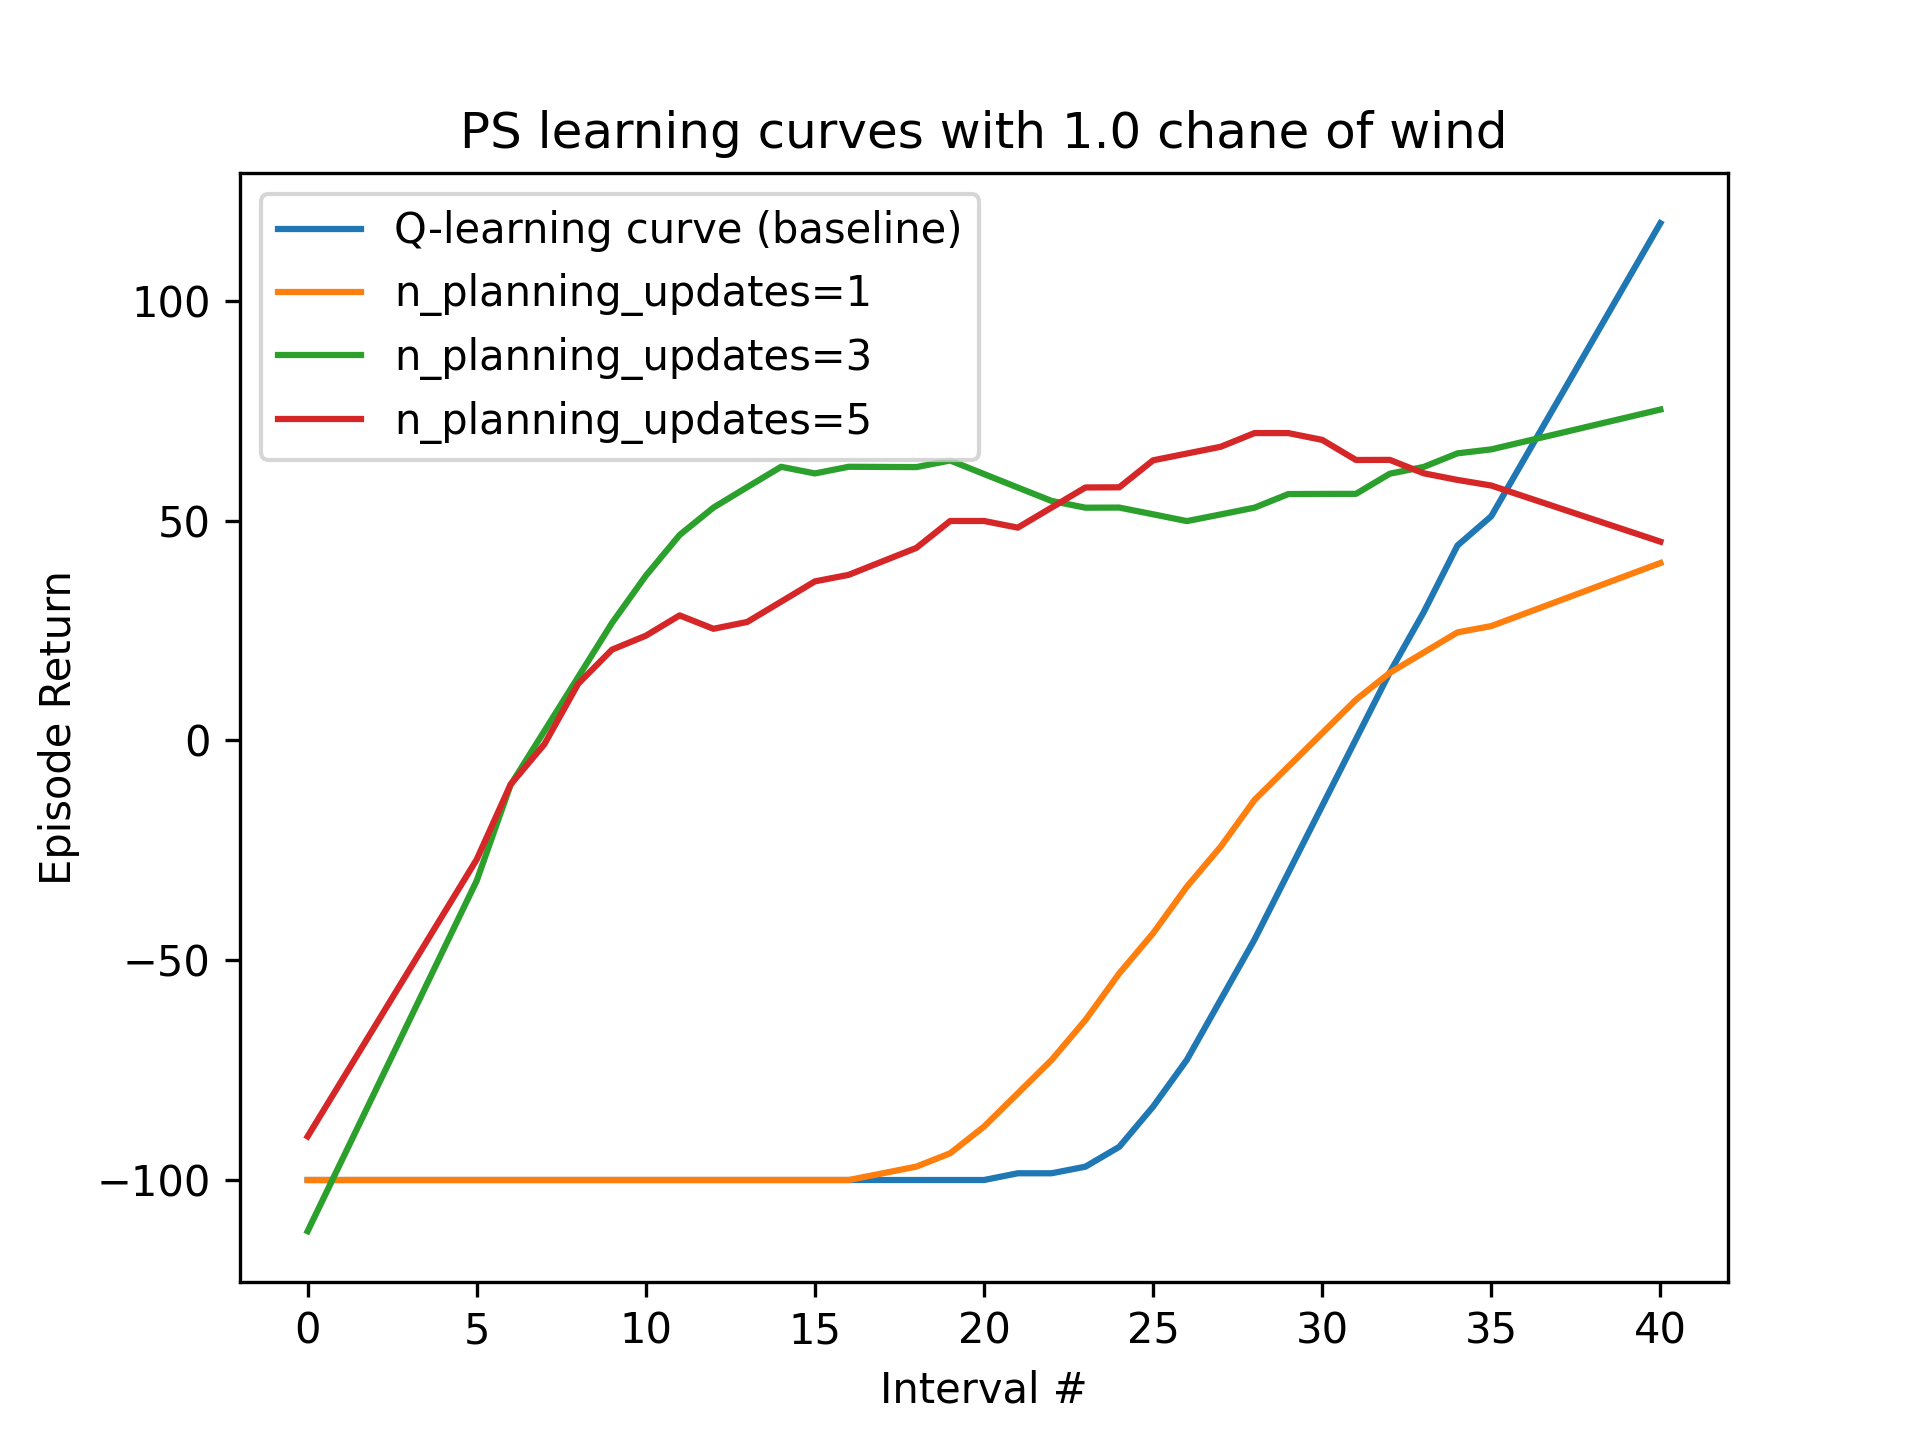
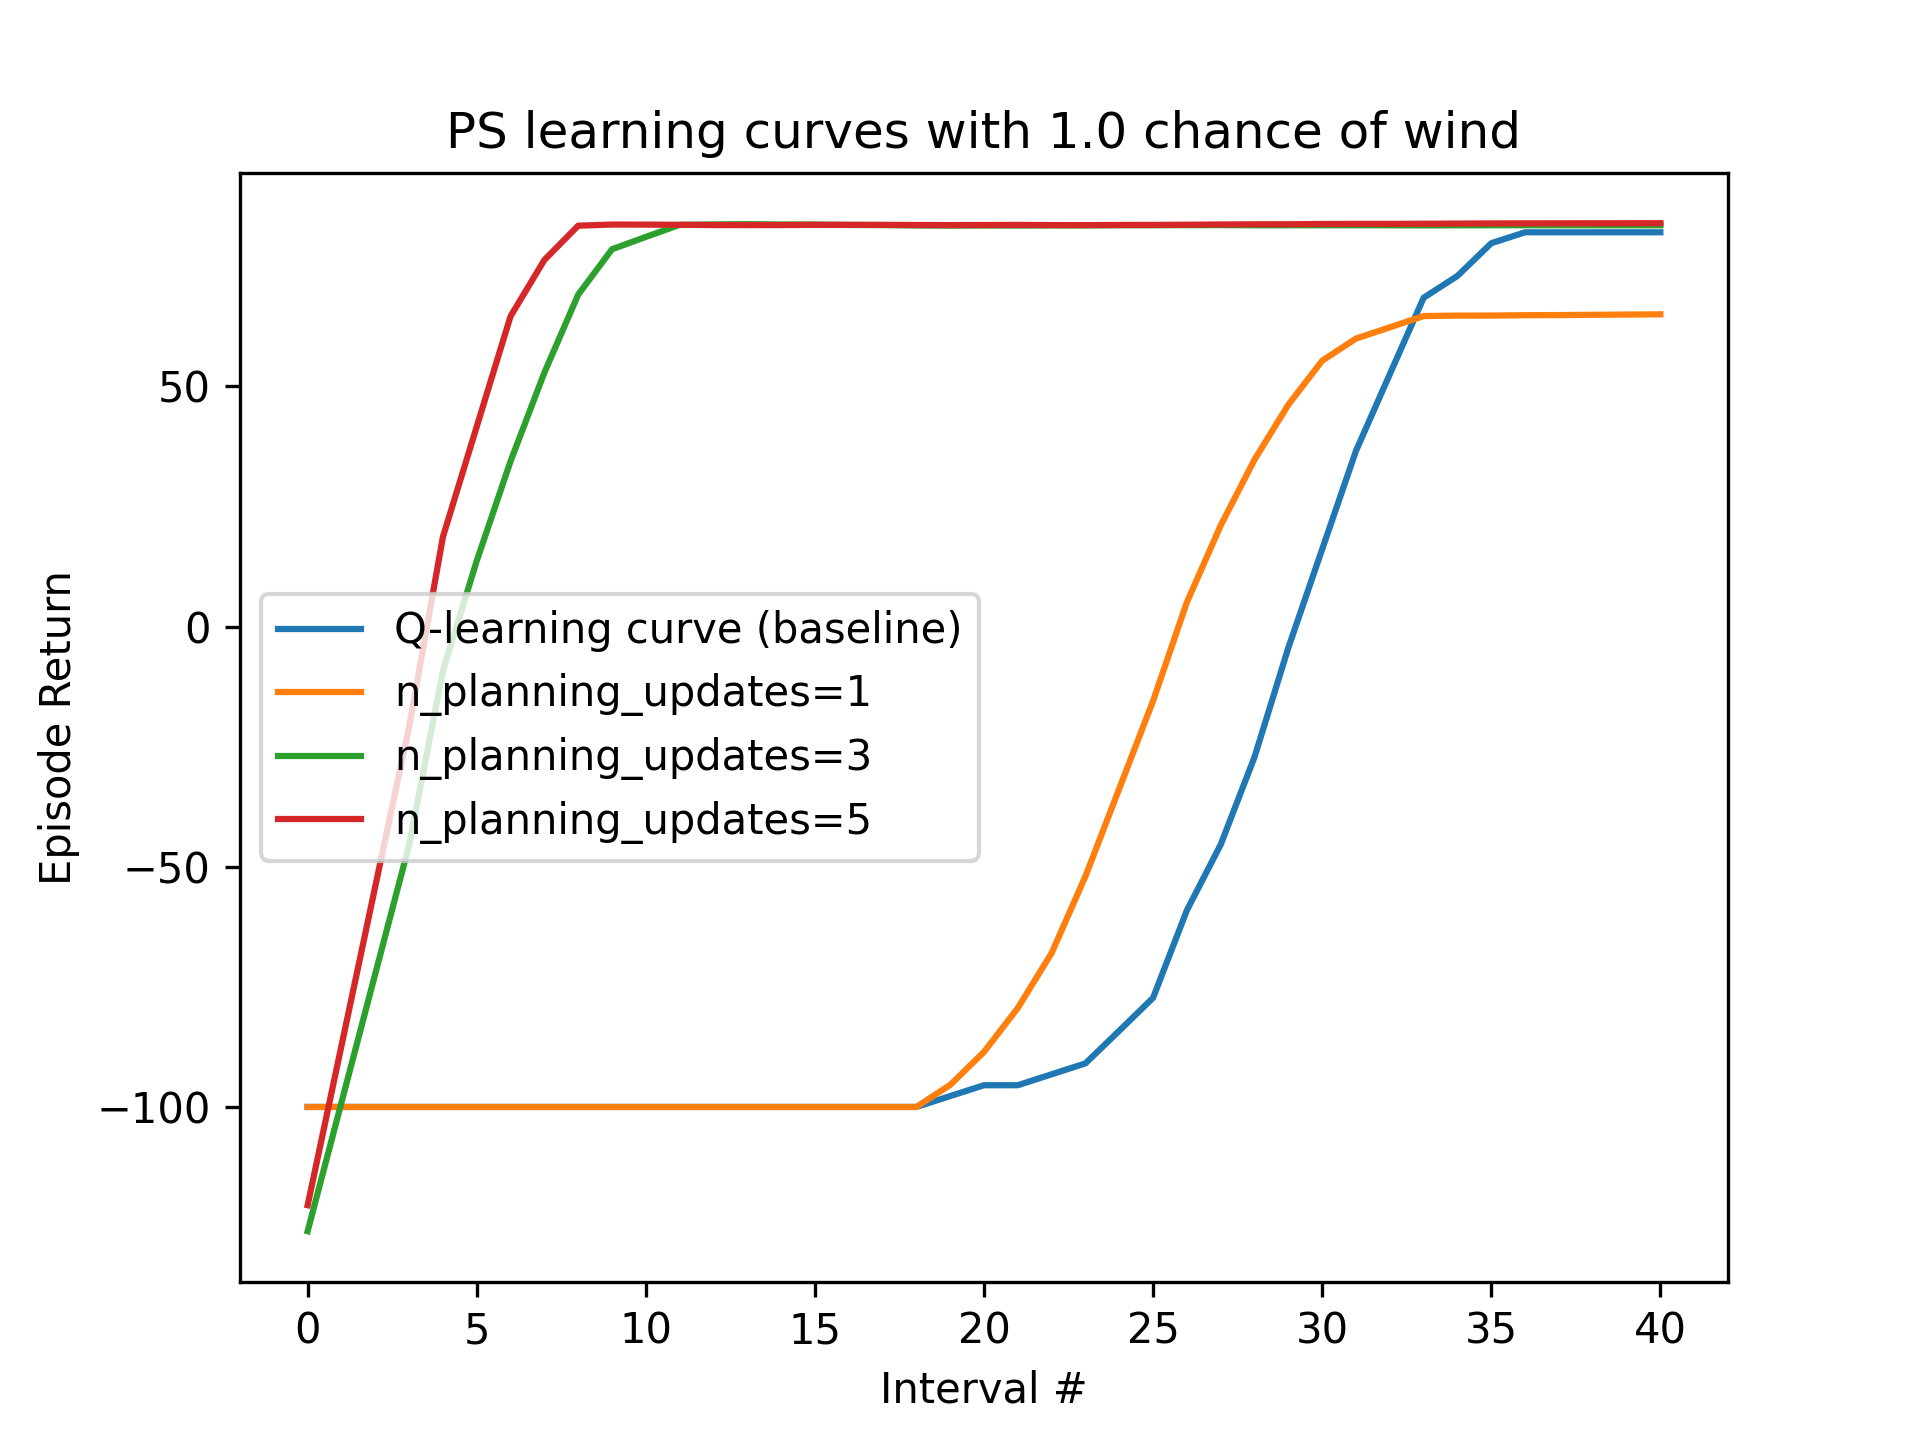
final(?) graphs

diff --git a/MBRLExperiment.py b/MBRLExperiment.py
@@ -25,7 +25,7 @@ def run_repetition(
 ) -> np.ndarray:
     rewards_arr = []
     s = env.reset()
-    counter = 0
+    counter = 1
     for n_timestep in tqdm(range(n_timesteps), desc="repetition"):
         a = agent.select_action(s, kwargs["epsilon"])
         s_next, r, done = env.step(a)
@@ -37,7 +37,7 @@ def run_repetition(
 
         if done or counter == max_episode_length:
             s = env.reset()
-            counter = 0
+            counter = 1
         else:
             s = s_next
             counter += 1
@@ -99,60 +99,57 @@ def experiment():
     wind_proportions = [0.9, 1.0]
     n_planning_updates_arr = [1, 3, 5]
 
-    # # Assignment 1 - Dyna
-    # print("Dyna")
-    # dyna_best_n_plan_updt_arr = np.full(len(wind_proportions), n_planning_updates_arr[0])
-    # dyna_best_aucs = np.full(len(wind_proportions), -np.inf)
-    # for i in range(len(wind_proportions)):
-    #     wind_prop = wind_proportions[i]
-    #     env = WindyGridworld(wind_proportion=wind_prop)
-    #     Dyna_plot = LearningCurvePlot(title=f"Dyna learning curves with {wind_prop} chance of wind")
-    #     Q_curve = run_repetitions(
-    #         env=env,
-    #         agent_type="Dyna",
-    #         n_repetitions=n_repetitions,
-    #         n_timesteps=n_timesteps,
-    #         max_episode_length=max_episode_length,
-    #         eval_interval=eval_interval,
-    #         learning_rate=learning_rate,
-    #         gamma=gamma,
-    #         n_planning_updates=0,
-    #         epsilon=epsilon,
-    #         wind_prop=wind_prop
-    #     )
-    #     Dyna_plot.add_curve(range(len(Q_curve)), smooth(Q_curve, window_size),
-    #                         label='Q-learning curve (baseline)')
-    #     for n_planning_updates in tqdm(n_planning_updates_arr):
-    #         curve = run_repetitions(
-    #             env=env,
-    #             agent_type="Dyna",
-    #             n_repetitions=n_repetitions,
-    #             n_timesteps=n_timesteps,
-    #             max_episode_length=max_episode_length,
-    #             eval_interval=eval_interval,
-    #             learning_rate=learning_rate,
-    #             gamma=gamma,
-    #             n_planning_updates=n_planning_updates,
-    #             epsilon=epsilon,
-    #             wind_prop=wind_prop
-    #         )
-    #         Dyna_plot.add_curve(range(len(curve)), smooth(curve, window_size),
-    #                             label=f"n_planning_updates={n_planning_updates}")
-    #         curve_auc = np.trapz(curve)
-    #         if curve_auc > dyna_best_aucs[i]:
-    #             dyna_best_n_plan_updt_arr[i] = n_planning_updates
-    #             dyna_best_aucs[i] = curve_auc
+    # Assignment 1 - Dyna
+    print("Dyna")
+    dyna_best_n_plan_updt_arr = np.full(len(wind_proportions), n_planning_updates_arr[0])
+    dyna_best_aucs = np.full(len(wind_proportions), -np.inf)
+    for i in range(len(wind_proportions)):
+        wind_prop = wind_proportions[i]
+        env = WindyGridworld(wind_proportion=wind_prop)
+        Dyna_plot = LearningCurvePlot(title=f"Dyna learning curves with {wind_prop} chance of wind")
+        Q_curve = run_repetitions(
+            env=env,
+            agent_type="Dyna",
+            n_repetitions=n_repetitions,
+            n_timesteps=n_timesteps,
+            max_episode_length=max_episode_length,
+            eval_interval=eval_interval,
+            learning_rate=learning_rate,
+            gamma=gamma,
+            n_planning_updates=0,
+            epsilon=epsilon,
+            wind_prop=wind_prop
+        )
+        Dyna_plot.add_curve(range(len(Q_curve)), smooth(Q_curve, window_size),
+                            label='Q-learning curve (baseline)')
+        for n_planning_updates in tqdm(n_planning_updates_arr):
+            curve = run_repetitions(
+                env=env,
+                agent_type="Dyna",
+                n_repetitions=n_repetitions,
+                n_timesteps=n_timesteps,
+                max_episode_length=max_episode_length,
+                eval_interval=eval_interval,
+                learning_rate=learning_rate,
+                gamma=gamma,
+                n_planning_updates=n_planning_updates,
+                epsilon=epsilon,
+                wind_prop=wind_prop
+            )
+            Dyna_plot.add_curve(range(len(curve)), smooth(curve, window_size),
+                                label=f"n_planning_updates={n_planning_updates}")
+            curve_auc = np.trapz(curve)
+            if curve_auc > dyna_best_aucs[i]:
+                dyna_best_n_plan_updt_arr[i] = n_planning_updates
+                dyna_best_aucs[i] = curve_auc
 
-    #     Dyna_plot.save(f"Dyna_w{i}")
+        Dyna_plot.save(f"Dyna_w{i}")
 
     # Assignment 2 - Prioritized Sweeping
     print("PS")
     ps_best_n_plan_updt_arr = np.full(len(wind_proportions), n_planning_updates_arr[0])
     ps_best_aucs = np.full(len(wind_proportions), -np.inf)
     for i in range(len(wind_proportions)):
-        # TO DO: DELETE 
-        if wind_proportions[i] == 1.0:
-            continue
         wind_prop = wind_proportions[i]
         env = WindyGridworld(wind_proportion=wind_prop)
         PS_plot = LearningCurvePlot(title=f"PS learning curves with {wind_prop} chance of wind")
@@ -194,72 +191,72 @@ def experiment():
 
         PS_plot.save(f"PS_w{i}")
 
-    # # Saving best params just in case
-    # best_params = {
-    #     "wind": wind_proportions,
-    #     "Dyna_n_planning_updates": dyna_best_n_plan_updt_arr.tolist(),
-    #     "PS_n_planning_updates": ps_best_n_plan_updt_arr.tolist()
-    # }
-    # with open("best_params.json", "w+") as file:
-    #     json.dump(best_params, file)
+    # Saving best params just in case
+    best_params = {
+        "wind": wind_proportions,
+        "Dyna_n_planning_updates": dyna_best_n_plan_updt_arr.tolist(),
+        "PS_n_planning_updates": ps_best_n_plan_updt_arr.tolist()
+    }
+    with open("best_params.json", "w+") as file:
+        json.dump(best_params, file)
 
-    # # Assignment 3 - Comparison
-    # print("Comparison")
-    # for i in range(len(wind_proportions)):
-    #     wind_prop = wind_proportions[i]
-    #     env = WindyGridworld(wind_proportion=wind_prop)
-    #     comparison_plot = LearningCurvePlot(title=f"Comparison plot with {wind_prop} chance of wind")
-    #     Q_curve = run_repetitions(
-    #         env=env,
-    #         agent_type="Dyna",
-    #         n_repetitions=n_repetitions,
-    #         n_timesteps=n_timesteps,
-    #         max_episode_length=max_episode_length,
-    #         eval_interval=eval_interval,
-    #         learning_rate=learning_rate,
-    #         gamma=gamma,
-    #         n_planning_updates=0,
-    #         epsilon=epsilon,
-    #         wind_prop=wind_prop
-    #     )
-    #     comparison_plot.add_curve(range(len(Q_curve)), smooth(Q_curve, window_size),
-    #                               label='Q-learning curve (baseline)')
-    #     Dyna_curve = run_repetitions(
-    #         env=env,
-    #         agent_type="Dyna",
-    #         n_repetitions=n_repetitions,
-    #         n_timesteps=n_timesteps,
-    #         max_episode_length=max_episode_length,
-    #         eval_interval=eval_interval,
-    #         learning_rate=learning_rate,
-    #         gamma=gamma,
-    #         n_planning_updates=dyna_best_n_plan_updt_arr[i],
-    #         epsilon=epsilon,
-    #         wind_prop=wind_prop
-    #     )
-    #     comparison_plot.add_curve(
-    #         range(len(Dyna_curve)), smooth(Dyna_curve, window_size),
-    #         label=f'Dyna learning curve (n_pln_updt={dyna_best_n_plan_updt_arr[i]})'
-    #     )
-    #     PS_curve = run_repetitions(
-    #         env=env,
-    #         agent_type="PS",
-    #         n_repetitions=n_repetitions,
-    #         n_timesteps=n_timesteps,
-    #         max_episode_length=max_episode_length,
-    #         eval_interval=eval_interval,
-    #         learning_rate=learning_rate,
-    #         gamma=gamma,
-    #         n_planning_updates=ps_best_n_plan_updt_arr[i],
-    #         epsilon=epsilon,
-    #         wind_prop=wind_prop
-    #     )
-    #     comparison_plot.add_curve(
-    #         range(len(PS_curve)), smooth(PS_curve, window_size),
-    #         label=f'PS learning curve (n_pln_updt={dyna_best_n_plan_updt_arr[i]})'
-    #     )
+    # Assignment 3 - Comparison
+    print("Comparison")
+    for i in range(len(wind_proportions)):
+        wind_prop = wind_proportions[i]
+        env = WindyGridworld(wind_proportion=wind_prop)
+        comparison_plot = LearningCurvePlot(title=f"Comparison plot with {wind_prop} chance of wind")
+        Q_curve = run_repetitions(
+            env=env,
+            agent_type="Dyna",
+            n_repetitions=n_repetitions,
+            n_timesteps=n_timesteps,
+            max_episode_length=max_episode_length,
+            eval_interval=eval_interval,
+            learning_rate=learning_rate,
+            gamma=gamma,
+            n_planning_updates=0,
+            epsilon=epsilon,
+            wind_prop=wind_prop
+        )
+        comparison_plot.add_curve(range(len(Q_curve)), smooth(Q_curve, window_size),
+                                  label='Q-learning curve (baseline)')
+        Dyna_curve = run_repetitions(
+            env=env,
+            agent_type="Dyna",
+            n_repetitions=n_repetitions,
+            n_timesteps=n_timesteps,
+            max_episode_length=max_episode_length,
+            eval_interval=eval_interval,
+            learning_rate=learning_rate,
+            gamma=gamma,
+            n_planning_updates=dyna_best_n_plan_updt_arr[i],
+            epsilon=epsilon,
+            wind_prop=wind_prop
+        )
+        comparison_plot.add_curve(
+            range(len(Dyna_curve)), smooth(Dyna_curve, window_size),
+            label=f'Dyna learning curve (n_pln_updt={dyna_best_n_plan_updt_arr[i]})'
+        )
+        PS_curve = run_repetitions(
+            env=env,
+            agent_type="PS",
+            n_repetitions=n_repetitions,
+            n_timesteps=n_timesteps,
+            max_episode_length=max_episode_length,
+            eval_interval=eval_interval,
+            learning_rate=learning_rate,
+            gamma=gamma,
+            n_planning_updates=ps_best_n_plan_updt_arr[i],
+            epsilon=epsilon,
+            wind_prop=wind_prop
+        )
+        comparison_plot.add_curve(
+            range(len(PS_curve)), smooth(PS_curve, window_size),
+            label=f'PS learning curve (n_pln_updt={dyna_best_n_plan_updt_arr[i]})'
+        )
 
-    #     comparison_plot.save(f"comparison_w{i}")
+        comparison_plot.save(f"comparison_w{i}")
 
 
 if __name__ == '__main__':

diff --git a/MBRLAgents.py b/MBRLAgents.py
@@ -111,14 +111,7 @@ class PrioritizedSweepingAgent:
         return a
 
     def update(self, s, a, r, done, s_next, n_planning_updates):
-
-        # TO DO: Add Prioritized Sweeping code
-
-        # Helper code to work with the queue
-        # Put (s,a) on the queue with priority p (needs a minus since the queue pops the smallest priority first)
-        # self.queue.put((-p,(s,a))) 
-        # Retrieve the top (s,a) from the queue
-        # _,(s,a) = self.queue.get() # get the top (s,a) for the queue
+        # Prioritized sweeping update
 
         # Update model
         self.n_sas[s, a, s_next] += 1
